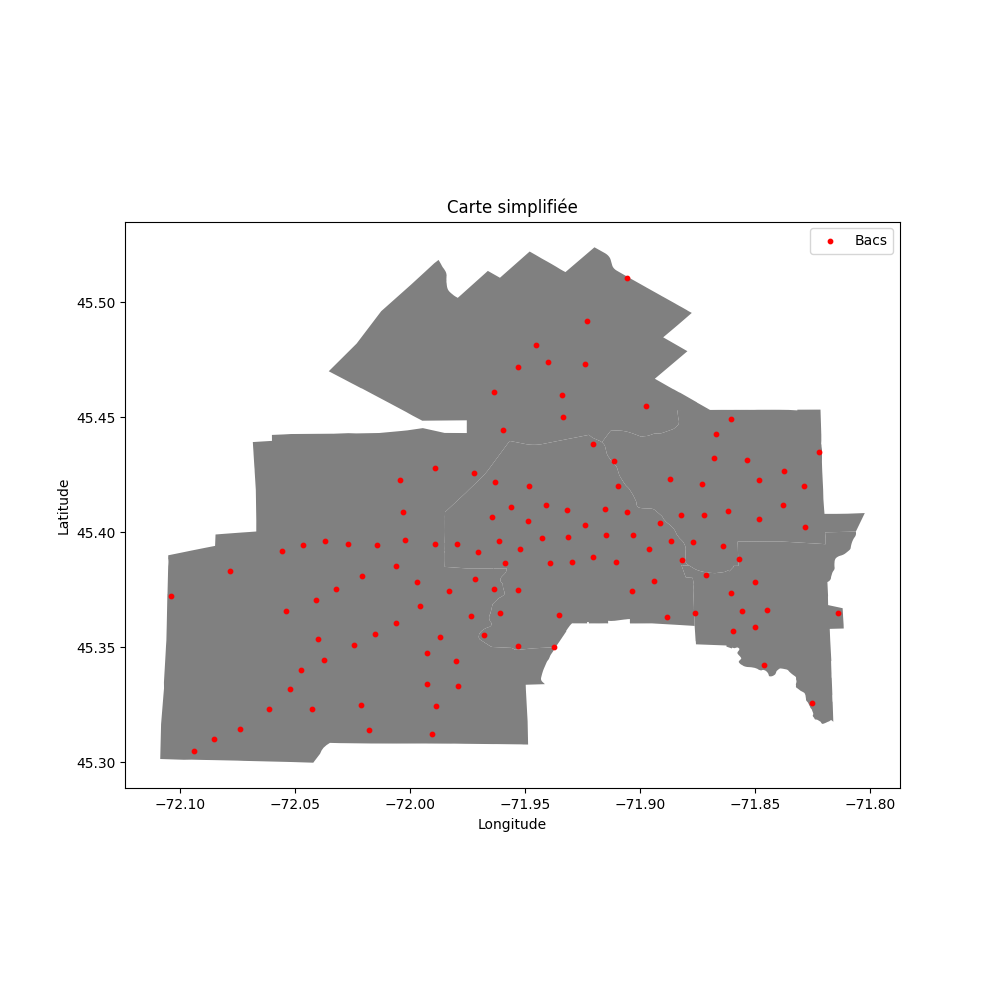
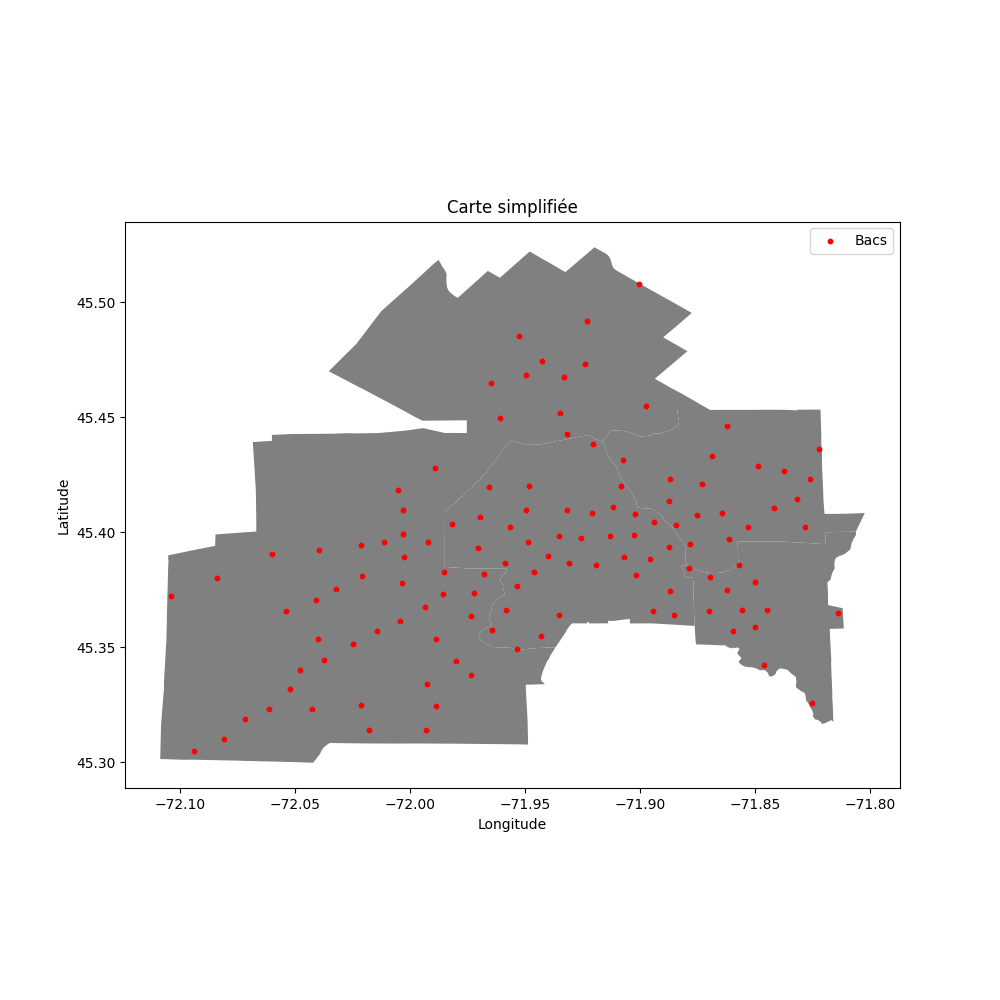
Classical MIS class

diff --git a/cluster_map.py b/cluster_map.py
@@ -1,9 +1,8 @@
 import numpy as np
 import pandas as pd
-from sklearn.cluster import KMeans
-import matplotlib.pyplot as plt
-import afficher_carte
+import generate_maps
 import networkx as nx
+from utils import create_node_dictionnary
 
 data = pd.read_csv(
     "/Users/lf/Desktop/Université/Session 3/BSQ201/Projet 2/ReQpex/datasets/liste_occupants_simple.csv"
@@ -15,21 +14,8 @@ def simplify_points(data: pd.DataFrame, radius_km: float, seed: int = 545):
     radius_lng_lat = (
         radius_km / 111.1
     )  # https://www.sco.wisc.edu/2022/01/21/how-big-is-a-degree/#:~:text=Therefore%20we%20can%20easily%20compute,69.4%20miles%20(111.1%20km).
-    """
-    x = np.array(data.Longitude, dtype=float)
-    y = np.array(data.Latitude, dtype=float)
-   
-    nb_clusters = int(np.ceil(len(x) / 25))
-
-    points = list(zip(x, y))
-    kmeans = KMeans(n_clusters=nb_clusters)
-    kmeans.fit(points)
-
-    plt.scatter(x, y, c=kmeans.labels_)
-    plt.show()
-    """
-
-    nodes = afficher_carte.create_dictionnary(data)
+    points = data[["Longitude", "Latitude"]].to_numpy(dtype=float, copy=True)
+    nodes = create_node_dictionnary(points)
     G = nx.Graph()
 
     for label, coord in nodes.items():
@@ -44,15 +30,18 @@ def simplify_points(data: pd.DataFrame, radius_km: float, seed: int = 545):
         for j in G.nodes():
             if (
                 i != j
-                and euclid_dist(G.nodes[i]["pos"], G.nodes[j]["pos"]) <= radius_lng_lat
+                and euclid_dist(G.nodes[i]["pos"], G.nodes[j]["pos"])
+                <= 2 * radius_lng_lat
             ):
                 G.add_edge(i, j)
     I = nx.maximal_independent_set(G, seed=seed)
     print(f"Maximum independent set of G: {I}")
 
     indexes = np.array(I, dtype=int)
-    new_points = data.iloc[indexes]
-    afficher_carte.generate_map(
+    new_points = (data.iloc[indexes])[["Longitude", "Latitude"]].to_numpy(
+        dtype=float, copy=True
+    )
+    generate_maps.generate_map(
         new_points,
         title="Carte simplifiée",
         path="/Users/lf/Desktop/Université/Session 3/BSQ201/Projet 2/ReQpex/",
@@ -63,6 +52,6 @@ def simplify_points(data: pd.DataFrame, radius_km: float, seed: int = 545):
 
 res = simplify_points(
     data,
-    1,
+    0.5,
 )
 print(len(res))

diff --git a/Find_MIS_disks.py b/Find_MIS_disks.py
@@ -1,0 +1,67 @@
+import numpy as np
+import matplotlib.pyplot as plt
+import networkx as nx
+from numpy.typing import NDArray
+from utils import create_node_dictionnary
+import random
+
+
+class Find_MIS_disks:
+    def __init__(self, positions: NDArray[np.float_], radius: float) -> None:
+        """
+        points[:,0]=x;Longitudes
+        points[:,1]=y;Latitudes
+        """
+        self.nodes_dict = create_node_dictionnary(positions)
+        self.nb_nodes = np.shape(positions)[0]
+        self.radius = radius
+        self.create_graph()
+
+    def create_graph(self):
+        self.G = nx.Graph()
+        for label, coord in self.nodes_dict.items():
+            self.G.add_node(label, pos=coord)
+
+        # Distance entre les positions
+        def euclid_dist(pos1, pos2):
+            return ((pos1[0] - pos2[0]) ** 2 + (pos1[1] - pos2[1]) ** 2) ** 0.5
+
+        # On met une condition pour ajouter des arêtes
+        for i in self.G.nodes():
+            for j in self.G.nodes():
+                if (
+                    i != j
+                    and euclid_dist(self.G.nodes[i]["pos"], self.G.nodes[j]["pos"])
+                    <= 2 * self.radius
+                ):
+                    self.G.add_edge(i, j)
+
+    def run(
+        self,
+        shots: int,
+        show_progress: bool = False,
+        generate_histogram: bool = False,
+        path: str = "",
+        file_name: str = "MIS_histo.png",
+    ):
+        run_results = []
+        zero_sting = "0" * self.nb_nodes
+        seeds = [random.randint(0, 100000) for _ in range(shots)]
+        for i in range(shots):
+            I = nx.maximal_independent_set(self.G, seed=seeds[i])
+            indexes = np.array(I, dtype=int)
+            string_mis = zero_sting
+            for j in indexes:
+                string_mis = string_mis[:j] + "1" + string_mis[j + 1 :]
+            run_results.append(string_mis)
+            if show_progress:
+                print("Shot ", i + 1, " done.")
+
+        count_dict = {
+            element: run_results.count(element) for element in set(run_results)
+        }
+        if generate_histogram:
+            plt.hist(run_results)
+            plt.savefig(path + file_name)
+            plt.show()
+        return count_dict

diff --git a/generate_maps.py b/generate_maps.py
@@ -5,15 +5,7 @@ import geopandas as gpd
 import networkx as nx
 from array import *
 from matplotlib.patches import Circle
-
-
-def create_dictionnary(points):
-    res = dict()
-    longitudes = points.Longitude
-    latitudes = points.Latitude
-    for i in range(np.shape(points)[0]):
-        res[str(i)] = (longitudes[i], latitudes[i])
-    return res
+from utils import create_node_dictionnary
 
 
 def generate_map(
@@ -26,7 +18,7 @@ def generate_map(
 ):
     # Création d'un geoDataFrame pour manipulation plus simple pour une mise en graphique
     gdf = gpd.GeoDataFrame(
-        points, geometry=gpd.points_from_xy(points.Longitude, points.Latitude)
+        points, geometry=gpd.points_from_xy(points[:, 0], points[:, 1])
     )
 
     # On sort les coordonnées de chaque bac
@@ -58,7 +50,7 @@ def generate_town_graph_radius(
     path="",
     file_name="datasets/graphe_cercles.png",
 ):
-    pos = create_dictionnary(points)
+    pos = create_node_dictionnary(points)
     data = {"x": [], "y": [], "label": []}
     for label, coord in pos.items():
         data["x"].append(coord[0])
@@ -99,7 +91,7 @@ def generate_town_graph_connected(
     path="",
     file_name="datasets/graphe_connecte.png",
 ):
-    pos = create_dictionnary(points)
+    pos = create_node_dictionnary(points)
     data = {"x": [], "y": [], "label": []}
     for label, coord in pos.items():
         data["x"].append(coord[0])
@@ -138,20 +130,25 @@ def generate_town_graph_connected(
         ax.set_title(title)
         ax.set_xlabel("Longitude")
         ax.set_ylabel("Latitude")
-    nx.draw(G, pos, with_labels=True, node_size=100)
+    nx.draw(G, pos=pos, with_labels=True, node_size=100)
     plt.savefig(path + file_name)
+    plt.show()
     # Pourquoi 2 graphiques
 
 
+"""
 # Lecture du fichier
 path = "/Users/lf/Desktop/Université/Session 3/BSQ201/Projet 2/ReQpex/"
 """
+
+"""
+
 points = pd.read_csv(
     path+"datasets/adresse_sherbrooke_ll.csv"
 )
-"""
 
 points = pd.read_csv(path + "datasets/liste_occupants_simple.csv")
+points = points[["Longitude", "Latitude"]].to_numpy(dtype=float, copy=True)
 r = 0.01
 map_back = True
 
@@ -175,3 +172,4 @@ generate_town_graph_connected(
     radius=r,
     file_name="maps/commerces_connect.png",
 )
+"""

diff --git a/main.py b/main.py
@@ -1,0 +1,55 @@
+import numpy as np
+from Find_MIS_disks import Find_MIS_disks
+from generate_maps import generate_town_graph_connected
+
+
+def main(
+    points,
+    radius,
+    shots,
+    generate_graph=False,
+    map_background=False,
+    show_progress=False,
+    generate_histogram=False,
+    path="",
+):
+    if generate_graph:
+        generate_town_graph_connected(
+            points,
+            radius=radius,
+            title="Test",
+            path=path,
+            map_background=map_background,
+            file_name="graph.png",
+        )
+    MIS_solver = Find_MIS_disks(points, radius)
+    res = MIS_solver.run(
+        shots,
+        show_progress=show_progress,
+        generate_histogram=generate_histogram,
+        path=path,
+    )
+    print(res)
+
+
+if __name__ == "__main__":
+    points = np.empty((5, 2))
+    points[:, 0] = [0.39808454, 0.05669836, -0.49947729, -0.95530561, 1.0]
+    points[:, 1] = [0.92306714, -0.54467165, 0.22258244, -0.69346288, 0.09248494]
+
+    radius = 1
+    shots = 10
+    generate_graph = False
+    map_background = False
+    show_progress = True
+    generate_histogram = True
+    path = "/Users/lf/Desktop/Université/Session 3/BSQ201/Projet 2/ReQpex/maps/"
+    main(
+        points,
+        radius,
+        shots,
+        generate_graph=generate_graph,
+        map_background=map_background,
+        show_progress=show_progress,
+        generate_histogram=generate_histogram,
+    )

diff --git a/utils.py b/utils.py
@@ -1,0 +1,10 @@
+import numpy as np
+
+
+def create_node_dictionnary(points):
+    res = dict()
+    longitudes = points[:, 0]
+    latitudes = points[:, 1]
+    for i in range(np.shape(points)[0]):
+        res[str(i)] = (longitudes[i], latitudes[i])
+    return res
